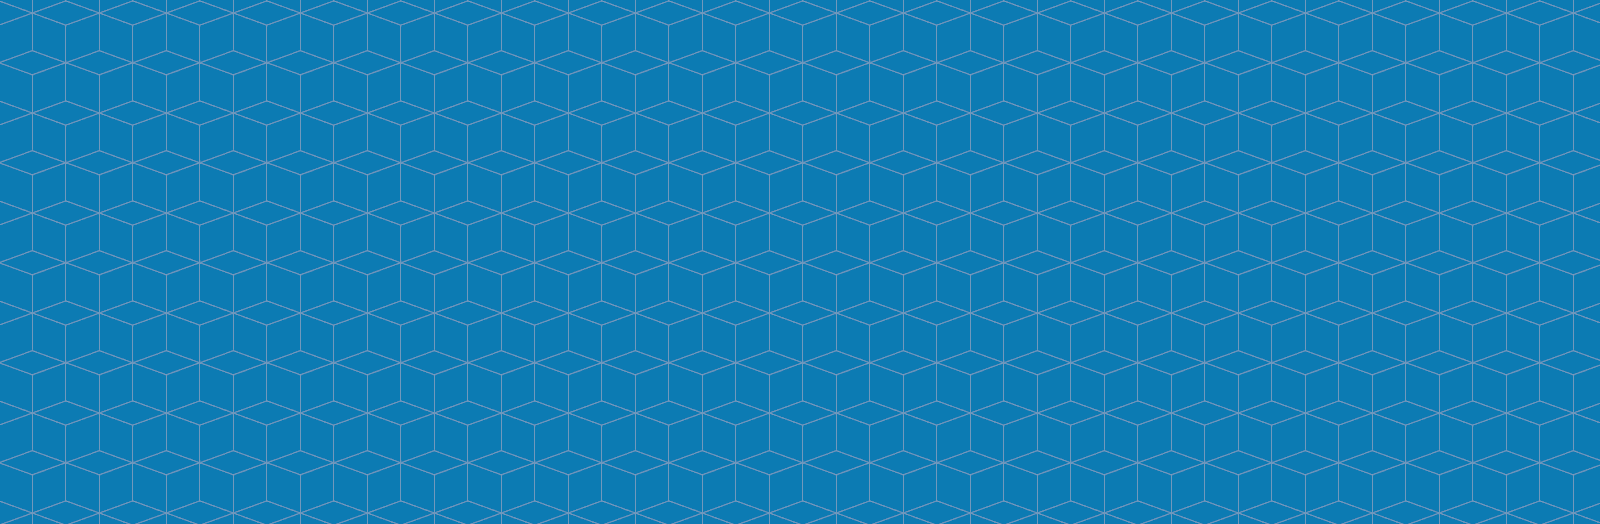
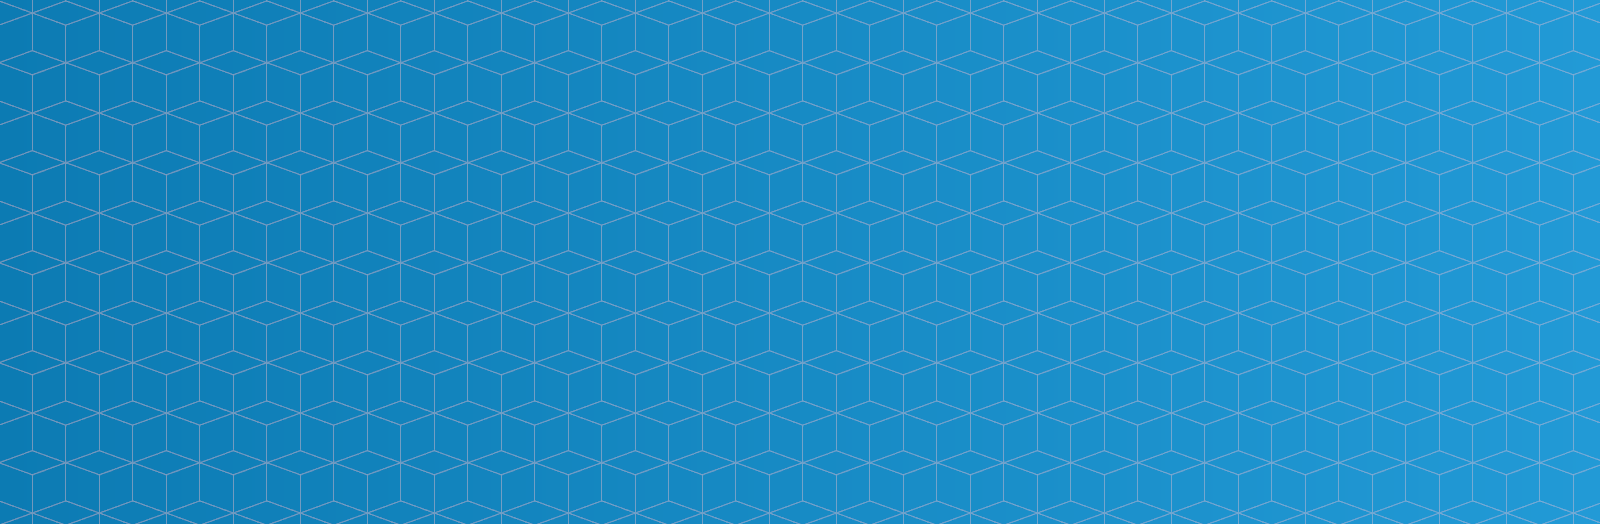
working on the splash page

Changed region(s): [[0.6875, 0.0, 1.0, 1.0]]

diff --git a/assets/css/main.scss b/assets/css/main.scss
@@ -1,0 +1,10 @@
+---
+# Only the main Sass file needs front matter (the dashes are enough)
+---
+
+@charset "utf-8";
+
+@import "minimal-mistakes/skins/{{ site.minimal_mistakes_skin | default: 'default' }}"; // skin
+@import "minimal-mistakes"; // main partials
+
+@import "https://rawgit.com/kremalicious/appstorebadges/master/dist/appstorebadges.min.css"

diff --git a/_pages/home.md b/_pages/home.md
@@ -3,36 +3,31 @@ layout: splash
 permalink: /
 hidden: true
 header:
-  overlay_color: "0.1"
   overlay_image: /assets/images/bg-pattern.png
   actions:
-    - label: "<i class='fas fa-download'></i> Install now"
-      url: "/docs/quick-start-guide/"
+    - label: "<i class='fas fa-download'></i> Start now for free!"
+      url: "/download/"
 excerpt: >
-  A flexible two-column Jekyll theme. Perfect for building personal sites, blogs, and portfolios.<br />
-  <small><a href="https://github.com/mmistakes/minimal-mistakes/releases/tag/4.20.1">Latest release v4.20.1</a></small>
-feature_row:
-  - image_path: /assets/images/mm-customizable-feature.png
-    alt: "customizable"
-    title: "Super customizable"
-    excerpt: "Everything from the menus, sidebars, comments, and more can be configured or set with YAML Front Matter."
-    url: "/docs/configuration/"
-    btn_class: "btn--primary"
-    btn_label: "Learn more"
-  - image_path: /assets/images/mm-responsive-feature.png
-    alt: "fully responsive"
-    title: "Responsive layouts"
-    excerpt: "Built with HTML5 + CSS3. All layouts are fully responsive with helpers to augment your content."
-    url: "/docs/layouts/"
-    btn_class: "btn--primary"
-    btn_label: "Learn more"
-  - image_path: /assets/images/mm-free-feature.png
-    alt: "100% free"
-    title: "100% free"
-    excerpt: "Free to use however you want under the MIT License. Clone it, fork it, customize it... whatever!"
-    url: "/docs/license/"
-    btn_class: "btn--primary"
-    btn_label: "Learn more"      
+  Budgeting as Easy as ABC
+intro:
+  - title: "Add the money you have now"
+    excerpt: "Add all of the cash, bank, and credit card account balances in the app to see how much money you have right now"
+feature_row2:
+  - image_path: /assets/images/web-add-the-money-you-have-now.png
+    title: "Add the money you have now"
+    excerpt: 'Add all of the cash, bank, and credit card account balances in the app to see how much money you have right now'
+feature_row3:
+  - image_path: /assets/images/web-budget-it-into-envelopes.png
+    title: "Budget it into envelopes"
+    excerpt: 'Using the money you have right now, budget it into the envelopes based on your priority'
+feature_row4:
+  - image_path: /assets/images/web-cover-the-unexpected.png
+    title: "Cover the unexpected"
+    excerpt: 'Life throws curve balls, Budget Badger makes them easier to handle by allowing you to adjust your budget on the fly'
 ---
 
-{% include feature_row %}
+{% include feature_row id="feature_row2" type="left" %}
+
+{% include feature_row id="feature_row3" type="right" %}
+
+{% include feature_row id="feature_row4" type="left" %}
